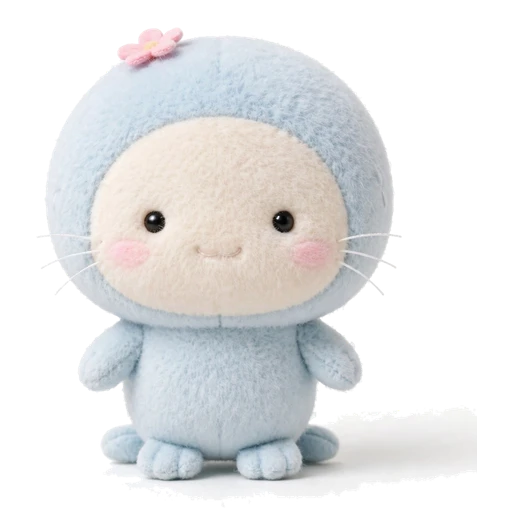
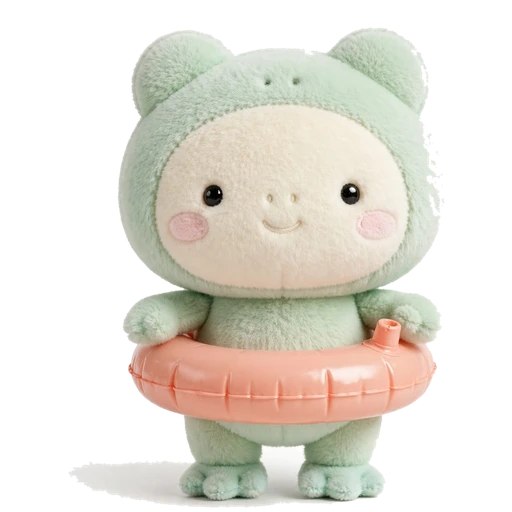
Draw all seven Muse-designed critters in every mood
The critter designer now sees which animals and colors other friends
already have, so each friend is a different animal: otter, goose,
bunny, turtle, kitten, bear cub, frog. Each has awake, sleepy,
napping and celebrating art.

diff --git a/src/server/hangout/pipeline.ts b/src/server/hangout/pipeline.ts
@@ -112,11 +112,21 @@ const CRITTER_SYSTEM = `You design a small friendship critter. Base every choice
    - detail: one tiny prop or accessory taken from a specific shared place or inside joke, max 12 words.
    - caption: one line starting with "A" that names the animal and the place or joke, max 14 words.`;
 
+/** Plush animals other friends already have, so every critter in the Hangout is a different kind of animal. */
+function takenArt(friendId: string) {
+  return hang()
+    .friends.filter((x) => x.id !== friendId && !x.isBlocked)
+    .map((x) => builtMemory(x.id)?.critter.art)
+    .filter((a): a is NonNullable<typeof a> => !!a)
+    .map((a) => `${a.animal} (${a.color})`);
+}
+
 export async function designCritter(friendId: string, mem: Parameters<typeof memorySummary>[0], opts: RunOpts = {}): Promise<{ design: Omit<CritterDesign, "keepsakes">; step: RunStep }> {
   const f = friendById(friendId)!;
+  const taken = takenArt(friendId);
   const prompt = `FRIEND: ${f.name}
 ${memorySummary(mem)}
-
+${taken.length ? `ALREADY IN THE HANGOUT (pick a different kind of animal and a different fur color): ${taken.join("; ")}\n` : ""}
 BODIES: ${BODIES.map((b) => `${b.id} (${b.hint})`).join("; ")}
 COLORS: ${COLORS.map((c) => c.id).join(", ")}
 ACCESSORIES: ${ACCESSORIES.map((a) => `${a.id} (${a.hint})`).join("; ")}`;
